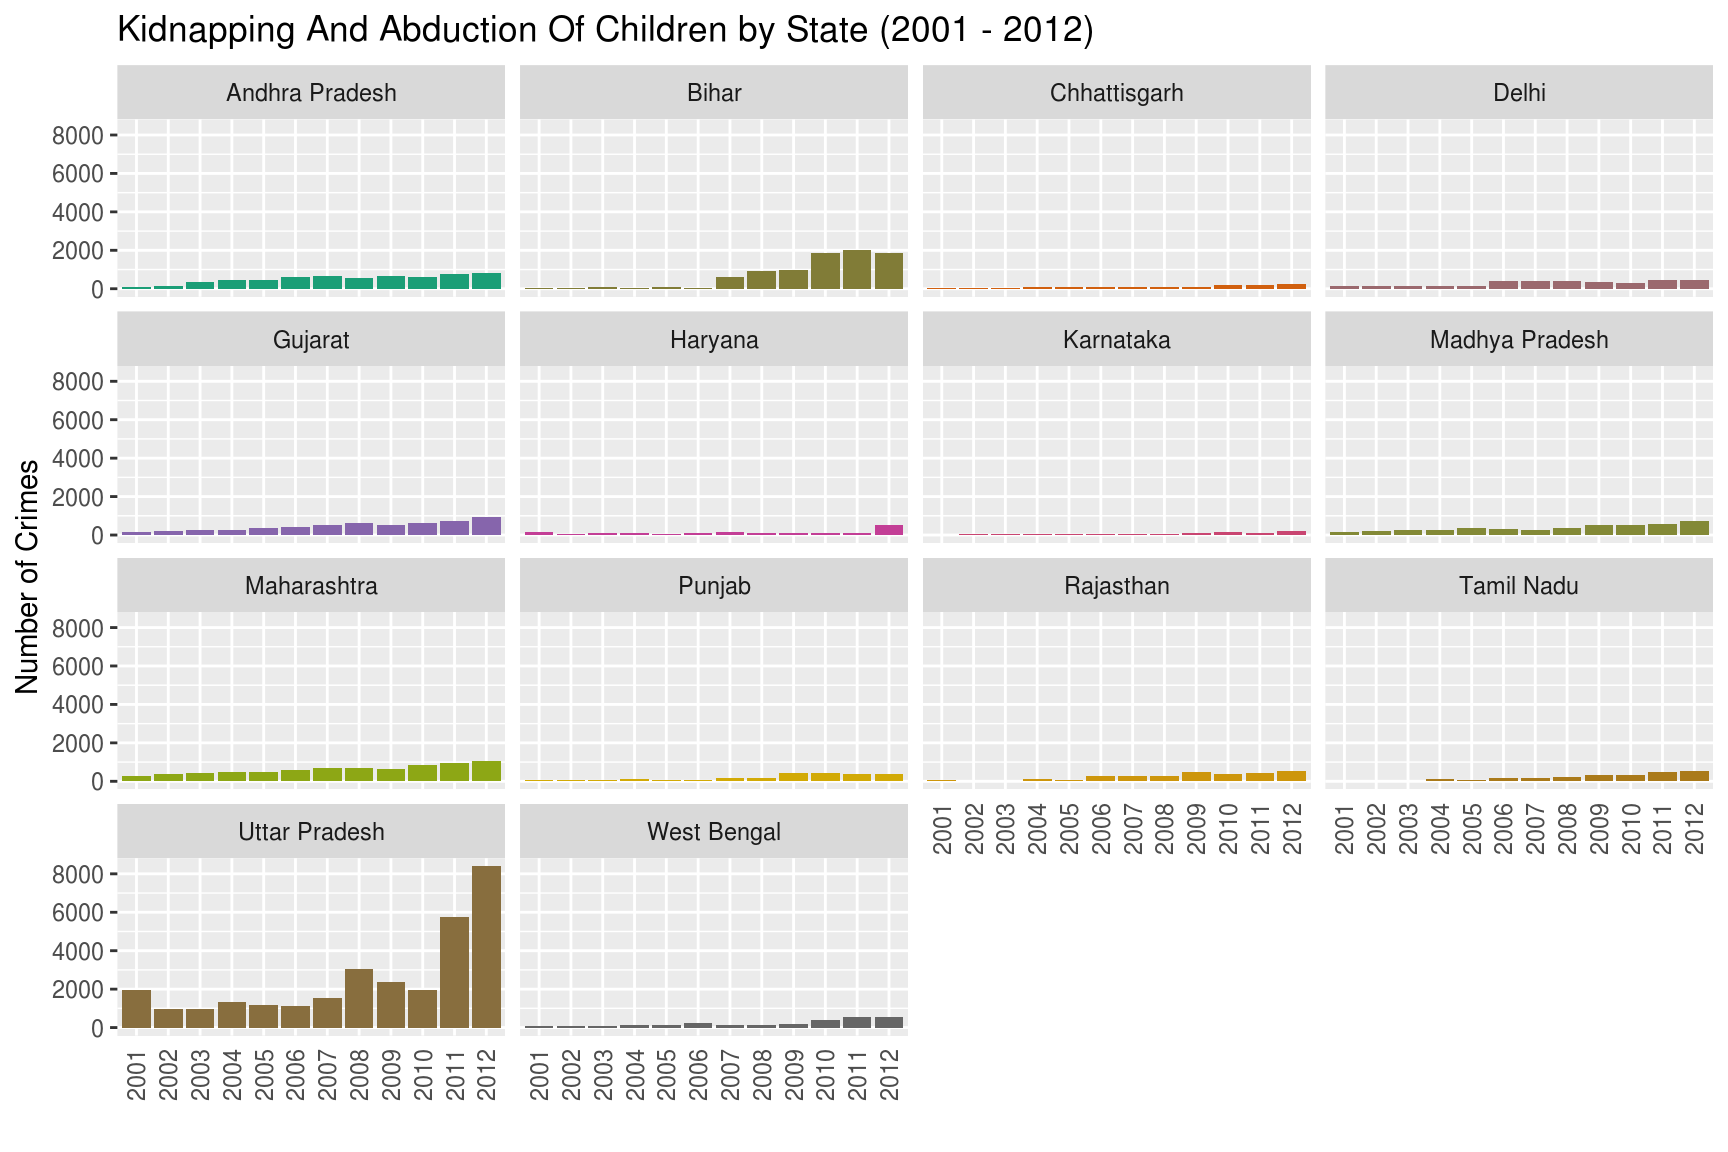
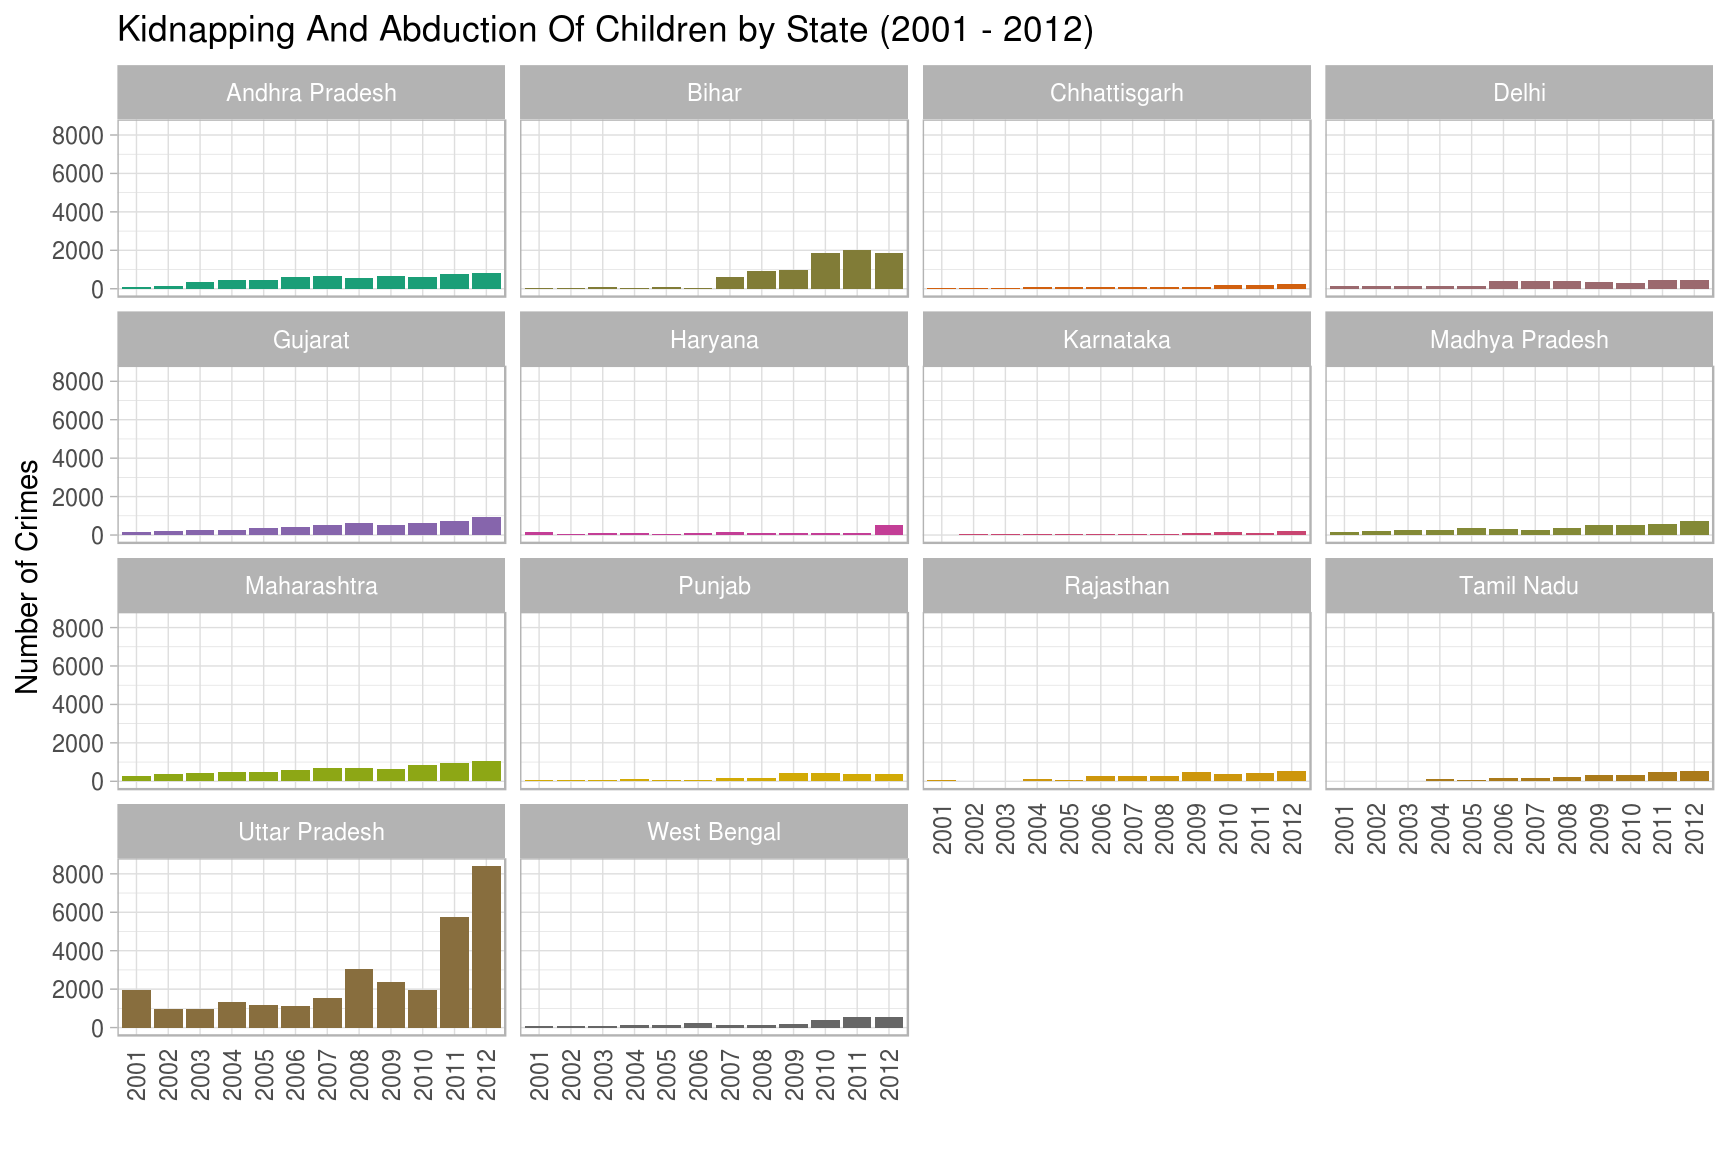
Update text and headers

diff --git a/content/post/2018-02-22-crime-against-children-in-india.html b/content/post/2018-02-22-crime-against-children-in-india.html
@@ -21,7 +21,7 @@ slug: crime-against-children-in-india
 <div id="introduction" class="section level1">
 <h1>Introduction</h1>
 <p>I found this dataset by chance on <a href="https://data.world">data.world</a> and it immediately sparked in interest as I have two small children and recently moved to India in 2017. The data is organized by state and specific crime from 2001 to 2012. It is a bit dated and not as granular as I would like (by city would have been nice), but the dataset is still worth exploring and practicing some basic skills.</p>
-<p>It should be noted that there generally isn’t any information about how this data was collected. There are certain crimes that appear more prevalent across all states and some for which there is no account. Perhaps people are less likely to report some crimes and more likely to report others.</p>
+<p>It should be noted that there generally isn’t any information about how this data was collected. There are certain crimes that appear more prevalent across all states and some for which there is no account. Perhaps people are less likely to report some crimes and more likely to report others. For the purpose of this analysis, I will take the data at face value and make assumptions along the way.</p>
 <p>The dataset can be found <a href="https://data.world/bhavnachawla/crime-rate-against-children-india-2001-2012">here</a>.</p>
 <div id="load-the-necessary-libraries" class="section level3">
 <h3>Load the necessary libraries</h3>
@@ -31,7 +31,8 @@ library(stringr)
 library(maptools)
 library(RColorBrewer)
 library(patchwork)
-library(gridExtra)</code></pre>
+library(gridExtra)
+library(ggthemes)</code></pre>
 </div>
 <div id="accessing-the-data" class="section level3">
 <h3>Accessing the data</h3>
@@ -127,6 +128,8 @@ df$state_ut &lt;- str_to_title(df$state_ut)</code></pre>
 </div>
 <div id="exploratory-data-analysis" class="section level3">
 <h3>Exploratory Data Analysis</h3>
+<div id="identify-prevalent-crimes-in-tamil-nadu-in-2012" class="section level4">
+<h4>Identify prevalent crimes in Tamil Nadu in 2012</h4>
 <p>I am still new to this and I suspect it makes more sense to begin with macro level analysis, but I started by focusing on the state of Tamil Nadu since that’s where I live. I was curious to see what crimes are most prevalent in this state.</p>
 <pre class="r"><code>df %&gt;%
   gather(&quot;year&quot;, df, -state_ut, -crime_head, convert = T) %&gt;%
@@ -161,7 +164,8 @@ df %&gt;%
   ggplot(aes(year,df)) + geom_line(color = &quot;DarkViolet&quot;) + 
     facet_wrap(~ crime_head, ncol = 2) +
     labs(y = &quot;Count&quot;, x = &quot;&quot;) +
-    scale_x_continuous(labels = function(x) as.integer(x))</code></pre>
+    scale_x_continuous(labels = function(x) as.integer(x)) +
+    theme_light()</code></pre>
 <p><img src="/post/2018-02-22-crime-against-children-in-india_files/figure-html/unnamed-chunk-7-1.png" width="672" /></p>
 <p>Kidnapping and rape appear to have the most alarming trajectories. I’m curious what average annual growth looks like.</p>
 <pre class="r"><code>df %&gt;%
@@ -179,6 +183,9 @@ df %&gt;%
 ## 4 Murder Of Children                    17.5
 ## 5 Other Crimes Against Children         12.1</code></pre>
 <p>Note that ‘Procuration Of Minor Girls’ is <strong>Inf</strong> since it was 0 in 2001. Kidnappings have grown by almost 50% a year!</p>
+</div>
+<div id="kidnappings-and-abductions-by-state" class="section level4">
+<h4>Kidnappings and Abductions by State</h4>
 <p>To add a little more context, I’ll take a look at kidnapping and abductions by state.</p>
 <pre class="r"><code>df %&gt;%
   gather(&quot;year&quot;, df, -state_ut, -crime_head, convert = F) %&gt;%
@@ -187,10 +194,11 @@ df %&gt;%
     facet_wrap(~state_ut) + 
     labs(title = &#39;Kidnapping And Abduction Of Children by State (2001 - 2012)&#39;,
          y = &#39;Number of Crimes&#39;, x=&#39;&#39;) +
+    theme_light() +
     theme(legend.position=&#39;none&#39;, 
         axis.text.x = element_text(angle = 90, vjust = 0.5),
         axis.ticks.x = element_blank()) +
-    scale_fill_manual(values = colorRampPalette(brewer.pal(8, &quot;Dark2&quot;))(14))</code></pre>
+    scale_fill_manual(values = colorRampPalette(brewer.pal(8, &quot;Dark2&quot;))(14)) </code></pre>
 <p><img src="/post/2018-02-22-crime-against-children-in-india_files/figure-html/kidnapping%20by%20state%20all-1.png" width="864" /></p>
 <p>Uttar Pradesh seems to stand out quite a bit, especially in 2012. Taking a closer look, we see it has had more than 4x the number of kidnappings than any other state in 2012!</p>
 <pre class="r"><code>df %&gt;%
@@ -212,7 +220,10 @@ df %&gt;%
           panel.grid = element_blank()) +
     scale_fill_manual(values = colorRampPalette(brewer.pal(8, &quot;Dark2&quot;))(15))</code></pre>
 <p><img src="/post/2018-02-22-crime-against-children-in-india_files/figure-html/kidnapping%20by%20state%2012-1.png" width="672" /></p>
-<p>The next question I have is <em>what crimes are most significant in each state?</em> A heatmap might be the best way to visualize this.</p>
+</div>
+<div id="levelplot" class="section level4">
+<h4>Levelplot</h4>
+<p>The next question I have is <em>what crimes are most significant in each state?</em> A heatmap (or levelplot) might be the best way to visualize this. This also allows us to visualize the most prevalent crimes throughout India.</p>
 <pre class="r"><code>df %&gt;%
   gather(&quot;year&quot;, df, -state_ut, -crime_head) %&gt;%
   filter(year == &#39;2012&#39;, crime_head != &quot;Total Crimes Against Children&quot;) %&gt;% 
@@ -229,8 +240,11 @@ df %&gt;%
     scale_fill_gradient(name = &quot;No. of\nCrimes&quot;,low=&quot;white&quot;, high=&quot;steelblue&quot;) +
     labs(x = &quot;&quot;, y = &quot;&quot;, title = &quot;Number of Crimes by State - 2012&quot;)</code></pre>
 <p><img src="/post/2018-02-22-crime-against-children-in-india_files/figure-html/heatmap-1.png" width="672" /></p>
-<p>As you can see, kidnappings and rape seem most significant across India. ‘Other’ crime is also significant – more research is necessary to learn what that comprises.</p>
-<p>Shifting to a more macro view, we’ll take a look at total crimes by state over time. I filter out states that have relatively less crime based on this data. From the charts below, it appears that Madhya Pradesh and Maharashtra have had higher crime, but with low growth, over time. Crime in Uttar Pradesh, however, has been sporadic and grown significantly between 2010 and 2012.</p>
+<p>As you can see, kidnappings and rape seem most significant across India. ‘Other’ crime is also significant – more research is necessary to learn what that comprises. It also appears that about half of the crimes are very low or 0 by count, which makes me suspect that data was unavaliable or that such crimes don’t often get reported or prosecuted.</p>
+</div>
+<div id="total-crime-by-state" class="section level4">
+<h4>Total Crime By State</h4>
+<p>Shifting to a more macro view, we’ll take a look at total crimes by state over time. I filter out states that have relatively less crime based on this data. From the charts below, it appears that Madhya Pradesh and Maharashtra have had higher crime, but with low growth, over time. Crime in Uttar Pradesh, however, has been sporadic and grew significantly between 2010 and 2012.</p>
 <p><img src="/post/2018-02-22-crime-against-children-in-india_files/figure-html/crimes%20by%20state-1.png" width="864" /></p>
 <p>Again, I’m interested in average annual growth, but here I take a look at total crimes by state. Tamil Nadu comes out on top. That is likely because we’re dealing with smaller numbers, but the trajectory is still quite steep. Uttar Pradesh had an average annual growth in crime of about 6% from 2001 to 2012, but crime fell from 2001 to 2002. Average growth from 2002 to 2012 was about 13%, which is twice as fast as indicated, but still places low on the chart below.</p>
 <pre class="r"><code>growth.tbl &lt;- df %&gt;%
@@ -257,8 +271,9 @@ growth.tbl %&gt;%
     scale_fill_manual(values = colorRampPalette(brewer.pal(8, &quot;Dark2&quot;))(15))</code></pre>
 <p><img src="/post/2018-02-22-crime-against-children-in-india_files/figure-html/geometric-1.png" width="672" /></p>
 </div>
-<div id="maps" class="section level2">
-<h2>Maps</h2>
+</div>
+<div id="geographic-distribution-of-total-crime" class="section level3">
+<h3>Geographic Distribution of Total Crime</h3>
 <p>Since I’m working with geographic data, I’d like to map it to visualize the relationship between crime and neighboring states. First, I have to prepare the dataframes for mapping and load the shape file for the states of India. I found a really helpful blogpost on this <a href="https://rforpublichealth.blogspot.in/2015/10/mapping-with-ggplot-create-nice.html">here</a>.</p>
 <pre class="r"><code># subset df for 2001 
 total_by_state_01 &lt;- df %&gt;%
